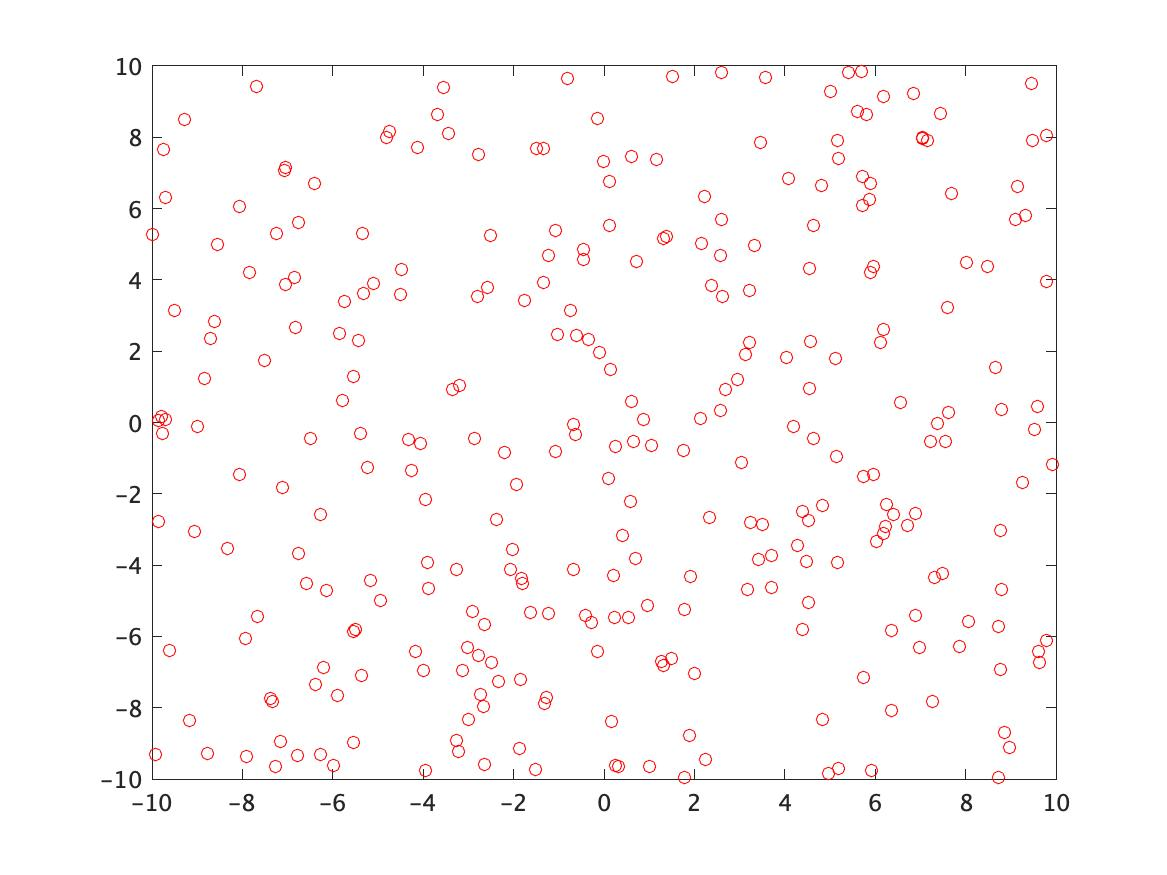
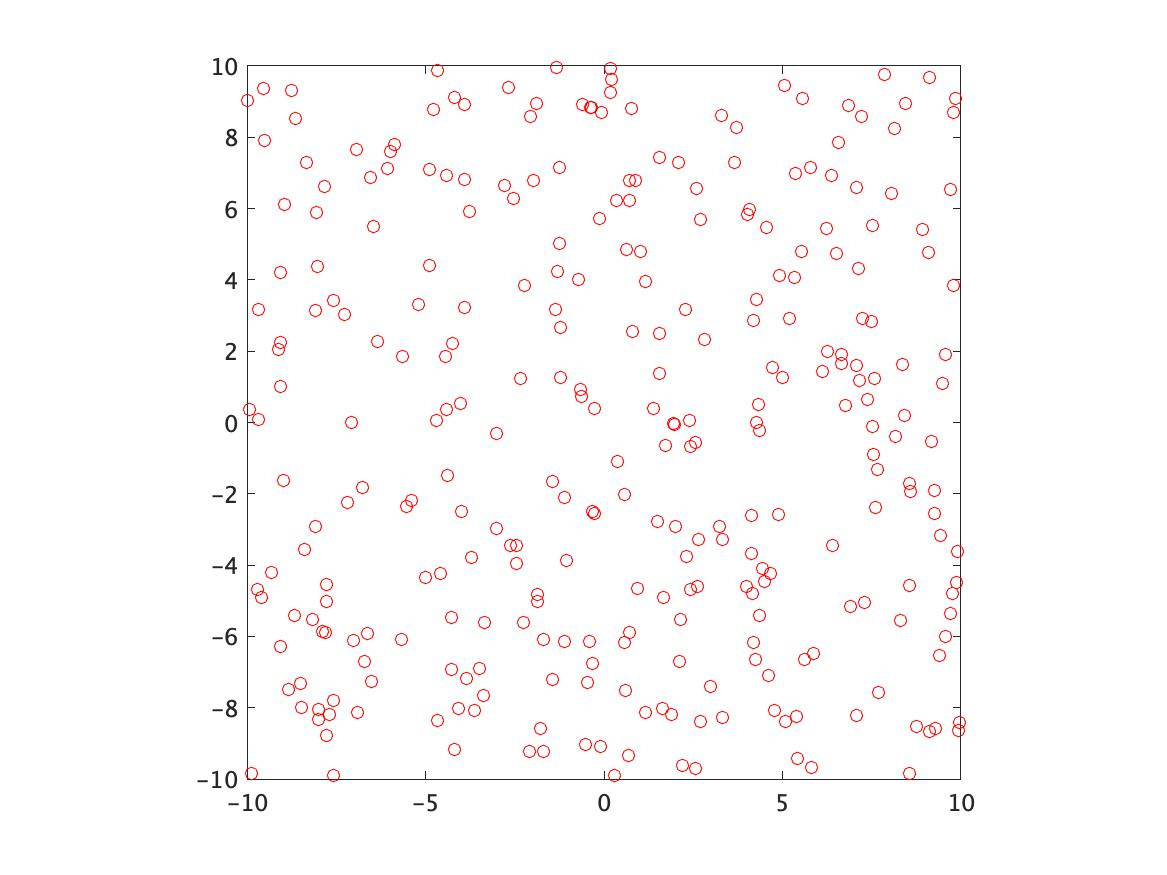
ちょい修正

diff --git a/2/kadai2_1.m b/2/kadai2_1.m
@@ -6,4 +6,6 @@ rng('shuffle')
 x = rand(300, 1)*20-10;
 y = rand(300, 1)*20-10;
 plot(x, y, 'ro')
+axis square
+axis([-10, 10, -10, 10])
 saveas(gcf,'graphs/kadai2_1.jpg')
